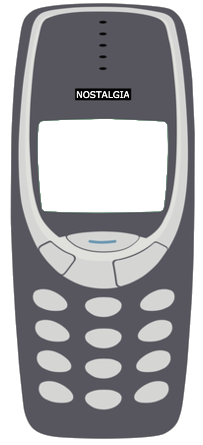
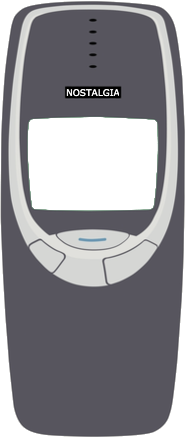
Add buttons component/grid

diff --git a/src/Snake-game.js b/src/Snake-game.js
@@ -1,140 +1,140 @@
-import React, { Component } from 'react'
+import React, { Component } from "react";
 
-import Button from './button'
+import Buttons from "./buttons";
 import {
   phoneColors,
   Container,
   PhoneImage,
   GameArea,
   PhoneBackscreen
-} from './styling'
-import { isLeft, isUp, isRight, isDown, isLost, isWon } from './helper'
+} from "./styling";
+import { isLeft, isUp, isRight, isDown, isLost, isWon } from "./helper";
 
 // Game dimensions and speed
-const cellSizeX = 8
-const cellSizeY = 6
-const tileCount = 20
-const paintAreaX = cellSizeX - 1
-const paintAreaY = cellSizeY - 1
-const gameSpeed = 100
+const cellSizeX = 8;
+const cellSizeY = 6;
+const tileCount = 20;
+const paintAreaX = cellSizeX - 1;
+const paintAreaY = cellSizeY - 1;
+const gameSpeed = 100;
 
 // initial player position
-let x
-let y
+let x;
+let y;
 // initial snake velocity as [x, y]
-let velocity
+let velocity;
 // initial snake trail and snake length
-let snakeTrail
-let snakeLength
+let snakeTrail;
+let snakeLength;
 // initial target position
-let targetX
-let targetY
+let targetX;
+let targetY;
 
 const resetGame = () => {
-  velocity = [1, 0]
-  x = 10
-  y = 10
-  snakeTrail = []
-  snakeLength = 5
-  targetX = Math.floor(Math.random() * tileCount)
-  targetY = Math.floor(Math.random() * tileCount)
-}
-resetGame()
+  velocity = [1, 0];
+  x = 10;
+  y = 10;
+  snakeTrail = [];
+  snakeLength = 5;
+  targetX = Math.floor(Math.random() * tileCount);
+  targetY = Math.floor(Math.random() * tileCount);
+};
+resetGame();
 
 class SnakeGame extends Component {
-  componentWillMount () {
-    clearInterval(this.interval)
+  componentWillMount() {
+    clearInterval(this.interval);
   }
 
-  componentDidMount () {
-    const canv = this.refs['myGameCanvas']
-    const ctx = canv.getContext('2d')
-    document.addEventListener('keydown', this.onKeyDown)
-    this.interval = setInterval(() => this.game(canv, ctx), gameSpeed)
+  componentDidMount() {
+    const canv = this.refs["myGameCanvas"];
+    const ctx = canv.getContext("2d");
+    document.addEventListener("keydown", this.onKeyDown);
+    this.interval = setInterval(() => this.game(canv, ctx), gameSpeed);
   }
 
-  componentWillUnmount () {
-    document.removeEventListener('keydown', this.onKeyDown)
-    clearInterval(this.interval)
-    resetGame()
+  componentWillUnmount() {
+    document.removeEventListener("keydown", this.onKeyDown);
+    clearInterval(this.interval);
+    resetGame();
   }
 
-  onKeyDown (e) {
-    e.preventDefault()
+  onKeyDown(e) {
+    e.preventDefault();
 
     // checks for keys but also prevents a move in an opposite direction
     if (isLeft(e) && velocity[0] !== 1 && velocity[1] !== 0) {
-      velocity = [-1, 0]
+      velocity = [-1, 0];
     } else if (isUp(e) && velocity[0] !== 0 && velocity[1] !== 1) {
-      velocity = [0, -1]
+      velocity = [0, -1];
     } else if (isRight(e) && velocity[0] !== -1 && velocity[1] !== 0) {
-      velocity = [1, 0]
+      velocity = [1, 0];
     } else if (isDown(e) && velocity[0] !== 0 && velocity[1] !== -1) {
-      velocity = [0, 1]
+      velocity = [0, 1];
     }
   }
 
-  game (canv, ctx) {
+  game(canv, ctx) {
     // paints the canvas background
-    ctx.fillStyle = phoneColors.light
-    ctx.fillRect(0, 0, canv.width, canv.height)
+    ctx.fillStyle = phoneColors.light;
+    ctx.fillRect(0, 0, canv.width, canv.height);
 
     // sets the new x and y positions
-    x += velocity[0]
-    y += velocity[1]
+    x += velocity[0];
+    y += velocity[1];
 
     // paints the snake
-    ctx.fillStyle = phoneColors.dark
+    ctx.fillStyle = phoneColors.dark;
     snakeTrail.forEach(i => {
-      ctx.fillRect(i.x * cellSizeX, i.y * cellSizeY, paintAreaX, paintAreaY)
+      ctx.fillRect(i.x * cellSizeX, i.y * cellSizeY, paintAreaX, paintAreaY);
 
       if (isLost(i, x, y)) {
-        resetGame()
+        resetGame();
       }
-    })
+    });
 
     // redefine x & y if the snake exits the game area
-    if (x < 0) x = tileCount - 1
-    if (x > tileCount - 1) x = 0
-    if (y < 0) y = tileCount - 1
-    if (y > tileCount - 1) y = 0
+    if (x < 0) x = tileCount - 1;
+    if (x > tileCount - 1) x = 0;
+    if (y < 0) y = tileCount - 1;
+    if (y > tileCount - 1) y = 0;
 
     // updates the snakeTrail with the new coordinate
-    snakeTrail.push({ x, y })
+    snakeTrail.push({ x, y });
 
     // removes irrelevant coordinates to keep the trail length equal to the snake length
     if (snakeTrail.length > snakeLength) {
-      snakeTrail = snakeTrail.slice(snakeTrail.length - snakeLength)
+      snakeTrail = snakeTrail.slice(snakeTrail.length - snakeLength);
     }
 
     if (isWon(targetX, x, targetY, y)) {
-      snakeLength++
-      targetX = Math.floor(Math.random() * tileCount)
-      targetY = Math.floor(Math.random() * tileCount)
+      snakeLength++;
+      targetX = Math.floor(Math.random() * tileCount);
+      targetY = Math.floor(Math.random() * tileCount);
     }
 
     // paints the target
-    ctx.fillStyle = phoneColors.dark
+    ctx.fillStyle = phoneColors.dark;
     ctx.fillRect(
       targetX * cellSizeX,
       targetY * cellSizeY,
       paintAreaX,
       paintAreaY
-    )
-    ctx.fillStyle = phoneColors.light
-    ctx.fillRect(targetX * cellSizeX + 2, targetY * cellSizeY + 2, 3, 1)
+    );
+    ctx.fillStyle = phoneColors.light;
+    ctx.fillRect(targetX * cellSizeX + 2, targetY * cellSizeY + 2, 3, 1);
   }
 
-  render () {
+  render() {
     return (
       <Container>
-        <PhoneImage src='./nostalgic_phone.png' alt='nostalgic_phone' />
-        <GameArea height='120' width='160' id='gameCanvas' ref='myGameCanvas' />
-        <PhoneBackscreen height='150' width='190' />
-        <Button number='0' onClick={() => {}} />
+        <PhoneImage src="./nostalgic_phone.png" alt="nostalgic_phone" />
+        <GameArea height="120" width="160" id="gameCanvas" ref="myGameCanvas" />
+        <PhoneBackscreen height="150" width="190" />
+        <Buttons />
       </Container>
-    )
+    );
   }
 }
 
-export default SnakeGame
+export default SnakeGame;

diff --git a/src/button.js b/src/button.js
@@ -1,8 +1,7 @@
-import React from 'react'
-import styled from 'styled-components'
+import React from "react";
+import styled from "styled-components";
 
 const StyledButton = styled.button`
-  position: absolute;
   z-index: 500;
   background-color: lightgrey;
   color: black;
@@ -11,10 +10,8 @@ const StyledButton = styled.button`
   border-radius: 50%;
   outline: none;
   font-size: 4vh;
-  top: 87.5%;
   font-weight: bold;
-  padding: 0 3.5vh 1.5vh;
-  height: 5%;
+  margin: 1.25vh 1vh 0;
   cursor: pointer;
 
   &:active {
@@ -25,10 +22,10 @@ const StyledButton = styled.button`
       0 0 1vh yellow;
     transform: translateY(0.6vh);
   }
-`
+`;
 
 const Button = ({ number, onClick }) => (
   <StyledButton onClick={onClick}>{number}</StyledButton>
-)
+);
 
-export default Button
+export default Button;

diff --git a/src/buttons.js b/src/buttons.js
@@ -1,0 +1,25 @@
+import React from "react";
+import styled from "styled-components";
+
+import Button from "./button";
+
+const StyledGrid = styled.div`
+  position: absolute;
+  top: 66%;
+  display: grid;
+  grid-template-columns: repeat(3, auto);
+  width: 33vh;
+`;
+
+let numberArrays = [...Array(10).keys()].slice(1);
+numberArrays.push("*", "0", "#");
+
+const Buttons = () => (
+  <StyledGrid>
+    {numberArrays.map(n => (
+      <Button number={n} onClick={() => {}} />
+    ))}
+  </StyledGrid>
+);
+
+export default Buttons;
